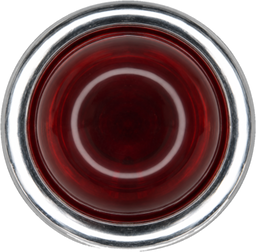
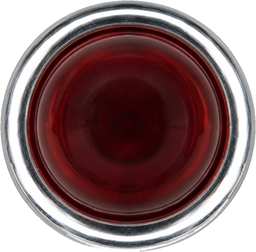
A lit tab's corners darker still; the ring light's reflection out of the jewels (R-LOOK)
The owner: "go even darker in the corners" (a quarter of a lit tab's light
at its corners), and "why does the overdrive light have a circle in the
middle of it?": the jewel's picture, POWER's and OVERLOAD's, had a ring
light's reflection in its dome, painted out.

Changed region(s): [[0.25, 0.25, 0.75, 0.7222]]

diff --git a/crates/ca72-panel/src/strip/worn.rs b/crates/ca72-panel/src/strip/worn.rs
@@ -61,8 +61,8 @@ const EDGE_FROM: f32 = 0.86;
 /// "should the corners of these buttons be darker, not lighter", "that's where the plastic
 /// would be densist from the user's perspective"): this share at the corner itself, easing in
 /// where the cap's sides meet its ends, from `CORNER_FROM` of the way out both ways.
-const CORNER_DARKER: f32 = 0.5;
-const CORNER_FROM: f32 = 0.35;
+const CORNER_DARKER: f32 = 0.75;
+const CORNER_FROM: f32 = 0.3;
 
 /// The lit cap with its outermost band darkened ([`EDGE_DARKER`]) and its corners more
 /// ([`CORNER_DARKER`]), in linear light, as far out as the kit's cap measures it (its rounded

diff --git a/crates/ca72-panel/assets/worn/README.md b/crates/ca72-panel/assets/worn/README.md
@@ -14,7 +14,7 @@ pictures:
 | `rocker-blue.png` | A blue rocker in its black opening, its right half raised | 512 × 194 |
 | `rocker-orange.png` | The same in orange (the controller's ivory ones are made from the blue in code) | 512 × 181 |
 | `power.png` | The POWER switch: a black ribbed rocker, its upper half raised | 112 × 320 |
-| `jewel.png` | POWER's lamp: a red domed jewel in a chrome bezel (OVERLOAD's darker one made from it in code) | 256 × 252 |
+| `jewel.png` | POWER's lamp: a red domed jewel in a chrome bezel (OVERLOAD's darker one made from it in code); the ring light's reflection in its dome painted out (2026-10-10: on OVERLOAD's dark glass it showed as a pink ring; each angle's band, radius 48 to 59 about (126.8, 122), the glass just inside it blended into the glass just outside) | 256 × 252 |
 | `jack.png` | A jack's knurled chrome ring nut | 256 × 251 |
 | `screw.png` | A black-oxide Phillips pan head | 96 × 96 |
 | `plate.png` | The name plate, blank: black anodised aluminium, a fine horizontal brushing, a bright chamfer lit from up and to the left (its lettering printed on it in code, `art::plate_worn`) | 1044 × 328 |

diff --git a/docs/decisions.md b/docs/decisions.md
@@ -2969,6 +2969,12 @@ list that drops down over the strip inside the window."
   light at the corner itself, the rim line round them too, easing in from 0.35 of the way out
   both ways (the light round the tab on the face, the kit's, is left as it is: it is not
   brighter at the corners). The window as it opens, for a look: `presets.rs`'s `window_png`.
+  Then "go even darker in the corners": a quarter of its light at the corner itself, easing in
+  from 0.3 of the way out. And "why does the overdrive light have a circle in the middle of
+  it?": the jewel's picture (POWER's, OVERLOAD's made from it) had a ring light's reflection
+  in its dome, a bright ring halfway out, which on OVERLOAD's dark glass read as a pink circle
+  (as the knobs' ring-light reflections did); painted out of the picture
+  (`assets/worn/README.md`), for both lamps.
 
 ## R-STEREO. The CA-74's stereo in the CA-72: SPREAD's law and places, the placement, UNISON, DOUBLE
 
